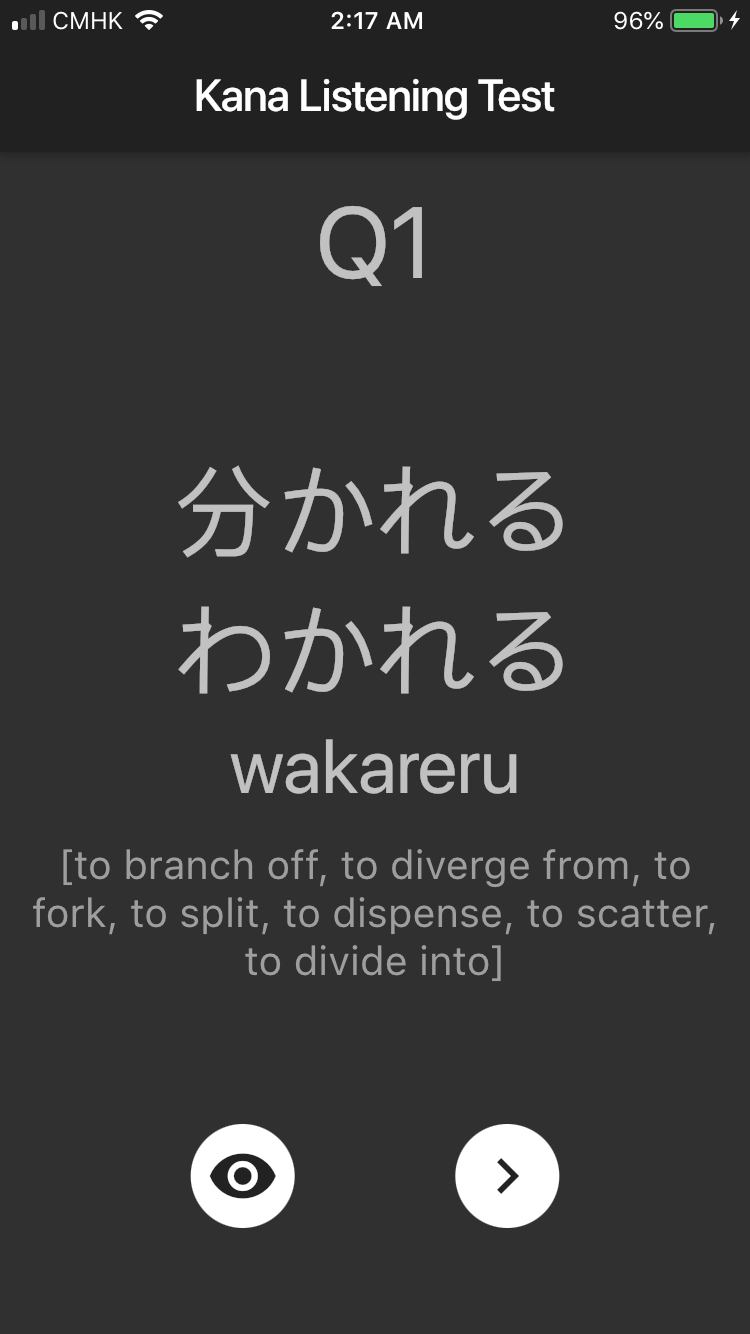
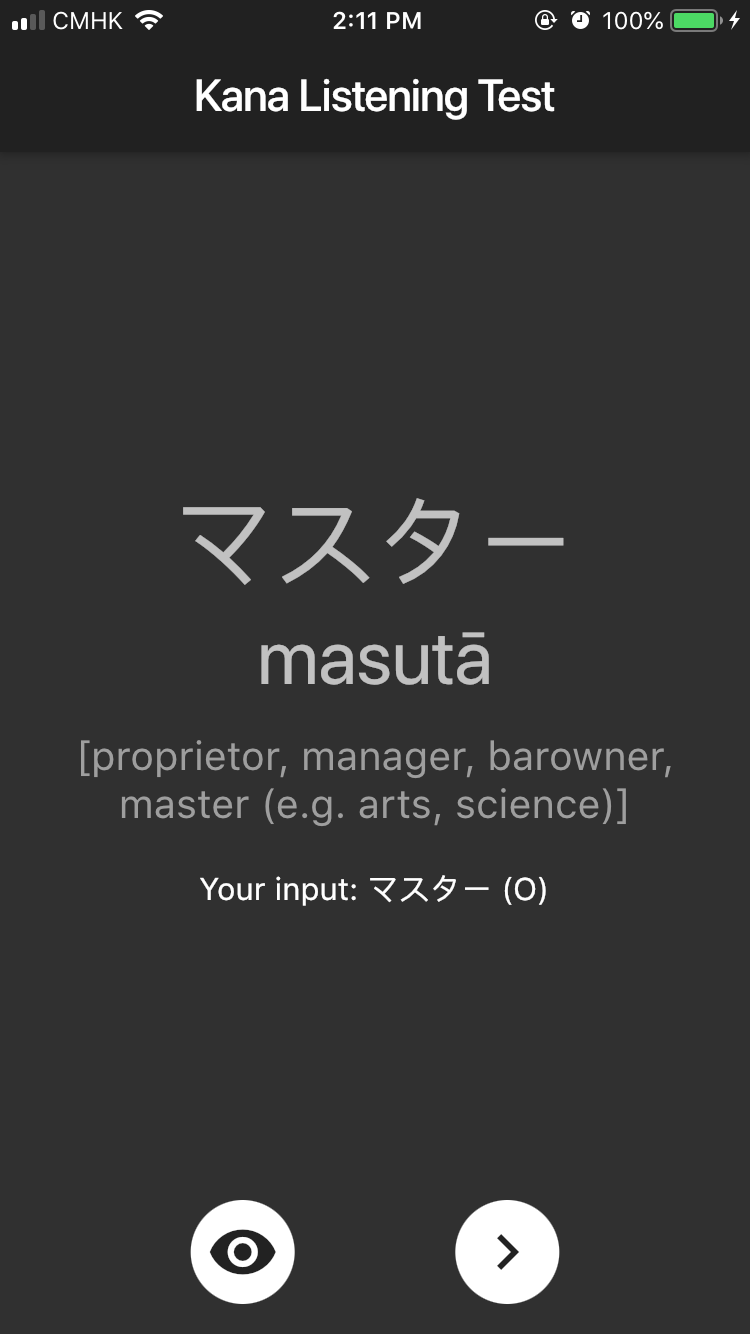
add textfiled to check answer

diff --git a/lib/main.dart b/lib/main.dart
@@ -47,6 +47,7 @@ class _MyHomePageState extends State<MyHomePage> {
   bool isAudioPlaying;
   bool isLoading;
   String audioUrl;
+  TextEditingController userInputController;
   AudioPlayer audioPlayer;
 
   @override
@@ -58,7 +59,8 @@ class _MyHomePageState extends State<MyHomePage> {
     isAudioPlaying = false;
     isLoading = false;
     audioUrl = "";
-    audioPlayer = AudioPlayer();
+    audioPlayer = new AudioPlayer();
+    userInputController = new TextEditingController();
     audioPlayer.onPlayerCompletion.listen((event) {
       setState(() {
         isAudioPlaying = false;
@@ -80,6 +82,7 @@ class _MyHomePageState extends State<MyHomePage> {
       counter++;
       vocab = newVocab;
       isShowAnswer = false;
+      userInputController.clear();
     });
   }
 
@@ -97,9 +100,21 @@ class _MyHomePageState extends State<MyHomePage> {
   }
 
   @override
+  void dispose() {
+    // Clean up the controller when the widget is removed from the
+    // widget tree.
+    userInputController.dispose();
+    super.dispose();
+  }
+
+  @override
   Widget build(BuildContext context) {
     bool isHiraganaExist = vocab.hiragana.length > 0;
     String questionNumber = counter.toString();
+    bool isInputCorrect = isHiraganaExist
+        ? vocab.hiragana == userInputController.text
+        : vocab.word == userInputController.text;
+    String result = isInputCorrect ? 'O' : 'X';
 
     return Scaffold(
         appBar: AppBar(
@@ -111,33 +126,62 @@ class _MyHomePageState extends State<MyHomePage> {
             child: Column(
               mainAxisAlignment: MainAxisAlignment.center,
               children: <Widget>[
-                Text(
-                  'Q' + questionNumber,
-                  style: Theme.of(context).textTheme.display2,
-                  textAlign: TextAlign.center,
-                ),
                 Visibility(
                   child: Expanded(
                     child: new Align(
-                      alignment: Alignment.center,
-                      child: Container(
-                        child: Ink(
-                          decoration: ShapeDecoration(
-                            color: Colors.green,
-                            shape: CircleBorder(),
-                          ),
-                          child: IconButton(
-                            icon: isAudioPlaying
-                                ? Icon(Icons.pause)
-                                : Icon(Icons.play_arrow),
-                            iconSize: 60.0,
-                            color: Colors.white,
-                            tooltip: 'Pronounce',
-                            onPressed: _playAudio,
-                          ),
-                        ),
-                      ),
-                    ),
+                        alignment: Alignment.center,
+                        child: Column(
+                          mainAxisAlignment: MainAxisAlignment.center,
+                          children: <Widget>[
+                            Text(
+                              'Q$questionNumber',
+                              style: Theme.of(context).textTheme.display2,
+                              textAlign: TextAlign.center,
+                            ),
+                            Container(
+                              margin: const EdgeInsets.only(top: 8.0),
+                              child: Ink(
+                                decoration: ShapeDecoration(
+                                  color: Colors.green,
+                                  shape: CircleBorder(),
+                                ),
+                                child: IconButton(
+                                  icon: isAudioPlaying
+                                      ? Icon(Icons.pause)
+                                      : Icon(Icons.play_arrow),
+                                  iconSize: 54.0,
+                                  color: Colors.white,
+                                  tooltip: 'Pronounce',
+                                  onPressed: _playAudio,
+                                ),
+                              ),
+                            ),
+                            Text(''),
+                            new Center(
+                              child: TextField(
+                                textAlign: TextAlign.center,
+                                controller: userInputController,
+                                decoration: InputDecoration(
+                                  hintText: 'Enter a the word',
+                                  filled: true,
+                                  fillColor: Colors.black26,
+                                  contentPadding: const EdgeInsets.only(
+                                      left: 14.0, bottom: 8.0, top: 8.0),
+                                  focusedBorder: OutlineInputBorder(
+                                    borderSide:
+                                        BorderSide(color: Colors.black26),
+                                    borderRadius: BorderRadius.circular(25.7),
+                                  ),
+                                  enabledBorder: UnderlineInputBorder(
+                                    borderSide:
+                                        BorderSide(color: Colors.black26),
+                                    borderRadius: BorderRadius.circular(25.7),
+                                  ),
+                                ),
+                              ),
+                            ),
+                          ],
+                        )),
                   ),
                   visible: !isShowAnswer,
                 ),
@@ -173,6 +217,9 @@ class _MyHomePageState extends State<MyHomePage> {
                                     color: Colors.grey, fontSize: 18.0),
                                 textAlign: TextAlign.center,
                               ),
+                              Text(''),
+                              Text(
+                                  'Your input: ${userInputController.text} ($result)')
                             ])),
                   ),
                   visible: isShowAnswer,
@@ -212,7 +259,6 @@ class _MyHomePageState extends State<MyHomePage> {
                     ),
                   ],
                 ),
-                Text('\n')
               ],
             ),
           ),
